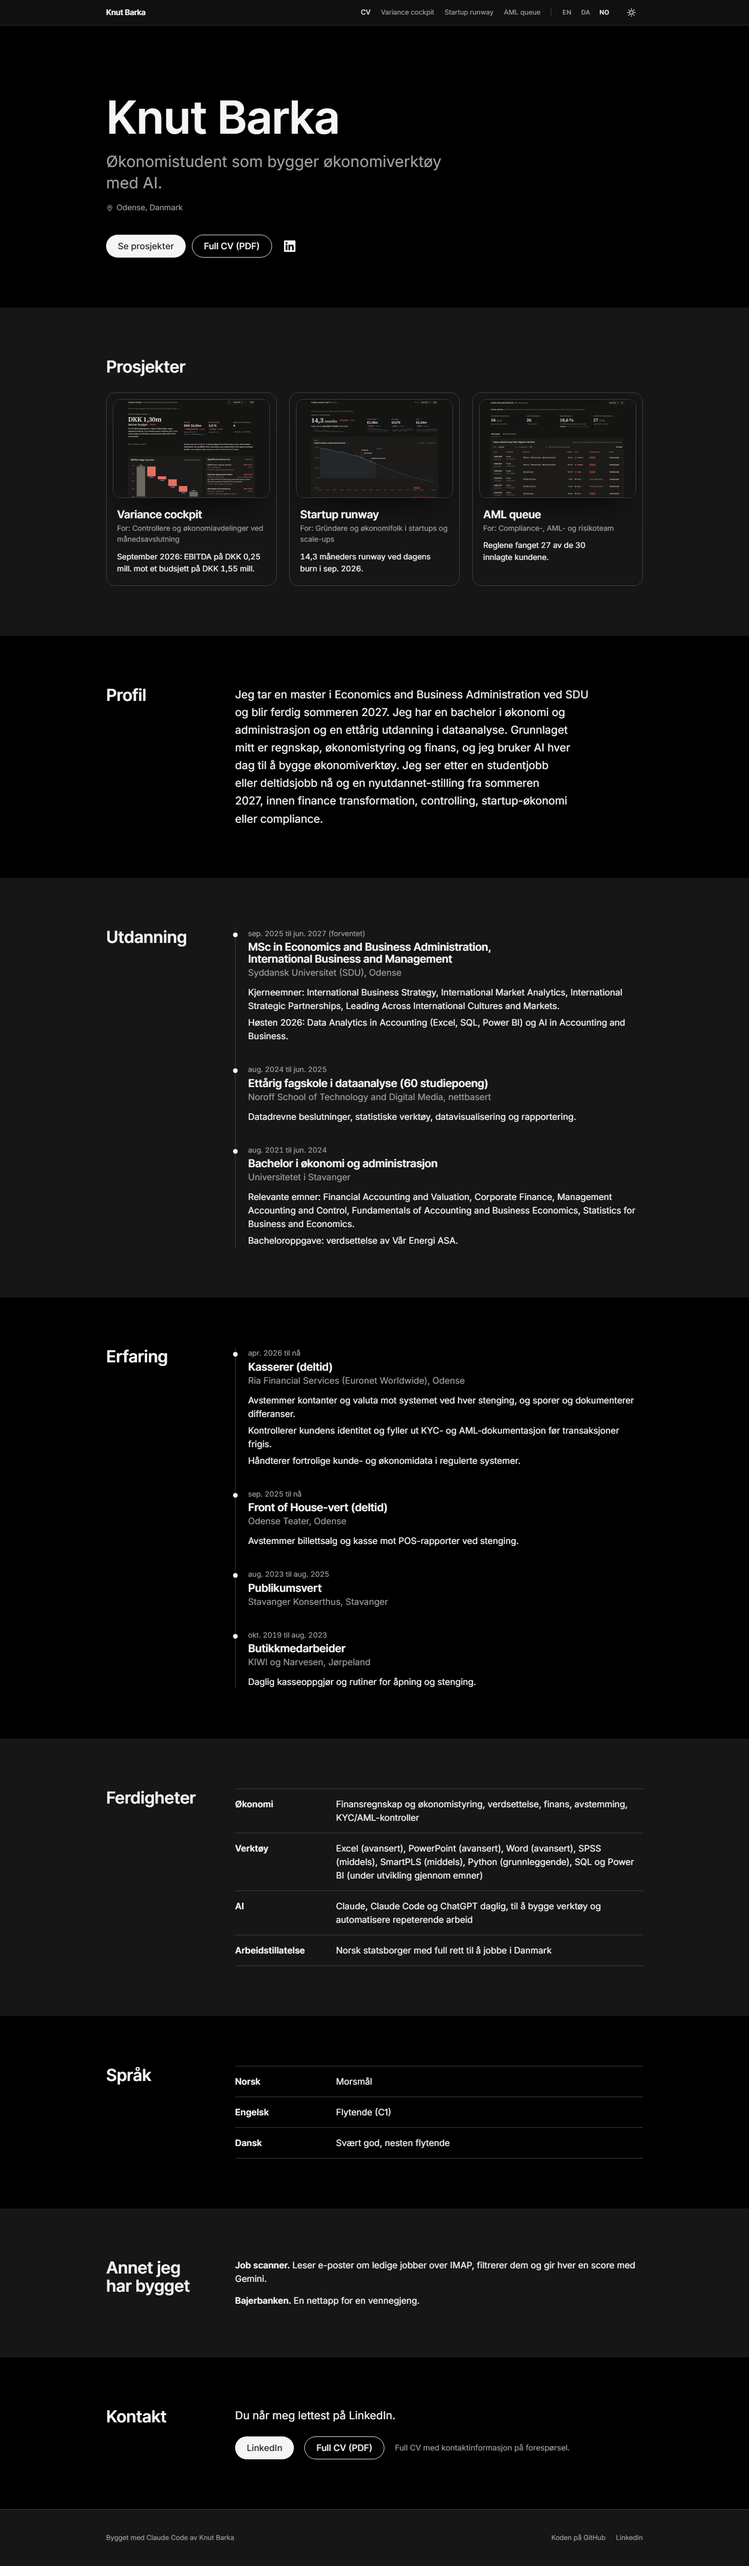
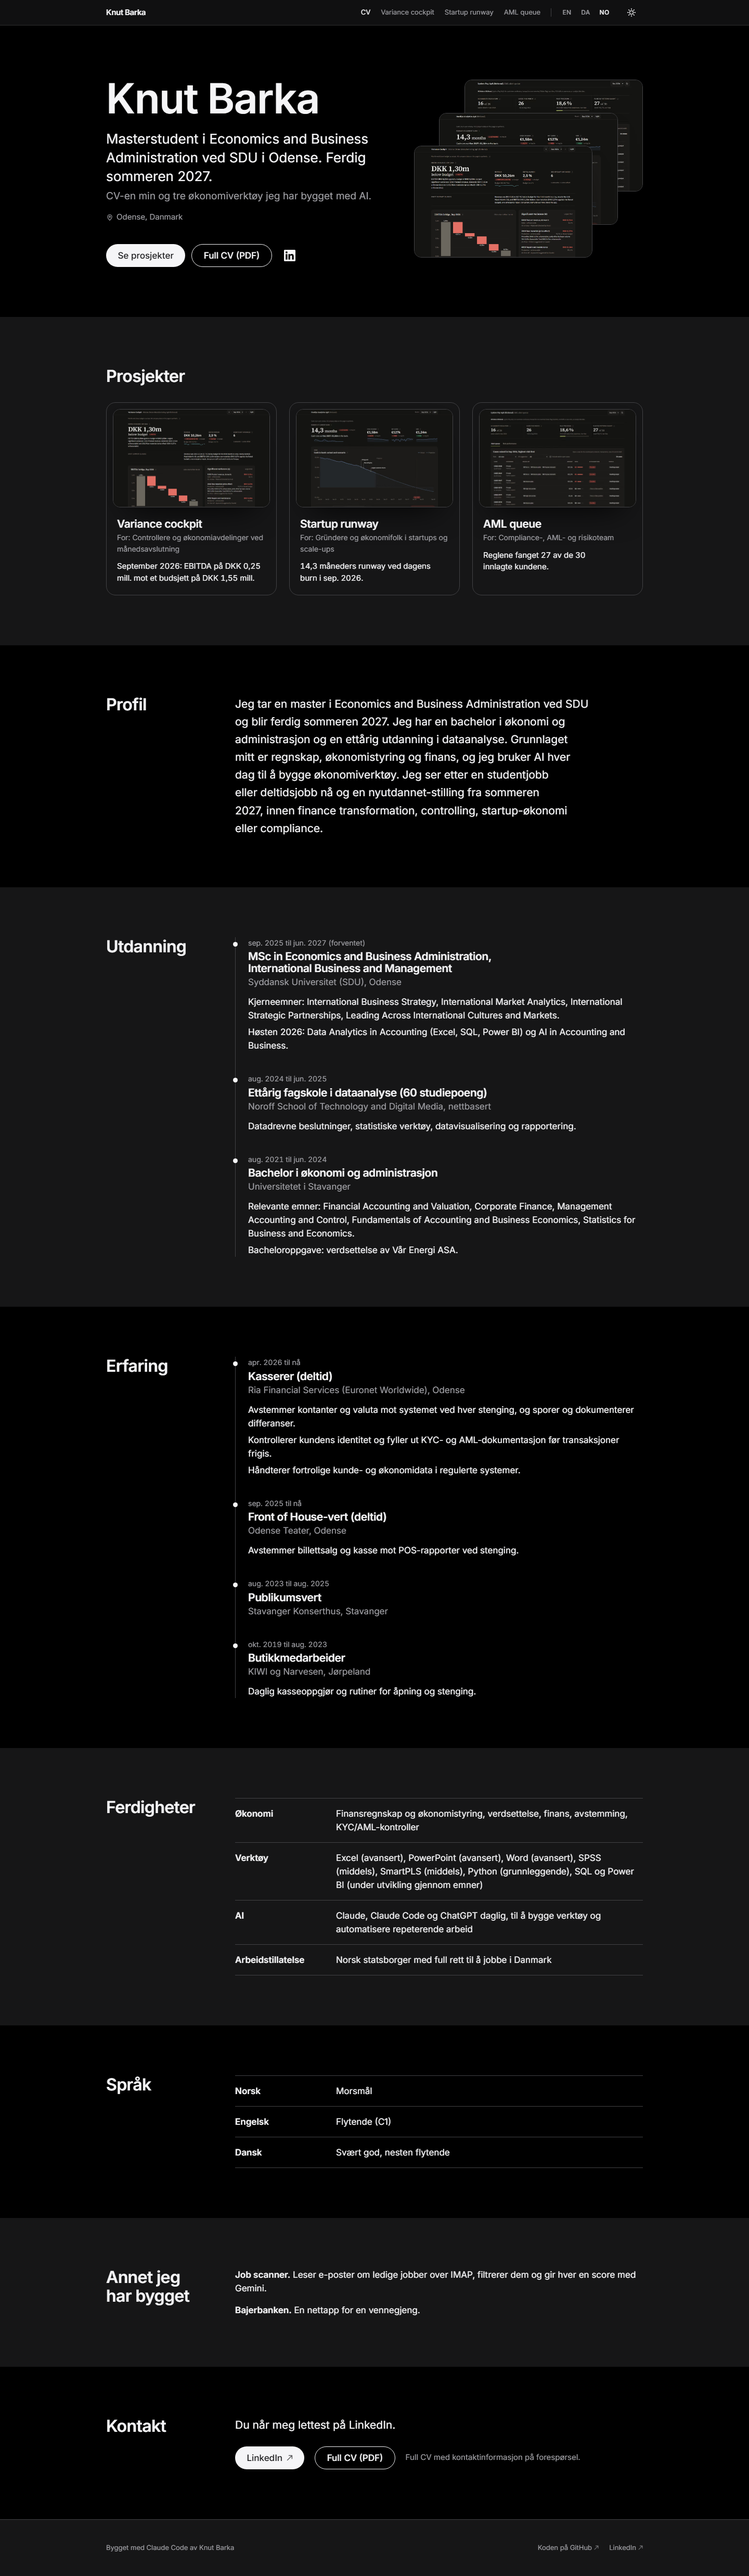
Hero stack in front-to-back tab order; QA log and decisions for the fix round; new screenshots

diff --git a/components/HeroShots.tsx b/components/HeroShots.tsx
@@ -2,12 +2,13 @@ import Link from "next/link";
 import { Shot } from "./Shot";
 import { projects, type Locale, type ProjectSlug } from "@/lib/site";
 
-// The three dashboards as a layered stack, back to front. Each one links to its project page.
+// The three dashboards as a layered stack. Each one links to its project page.
+// Listed front to back, so Tab reaches the front one first; z-index does the visual stacking.
 // Positions are percentages of the box, so the stack scales with the column.
 const layers: { slug: ProjectSlug; className: string }[] = [
-  { slug: "aml-queue", className: "right-0 top-0 z-0 [animation-delay:150ms]" },
-  { slug: "startup-runway", className: "right-[11%] top-[18%] z-10 [animation-delay:250ms]" },
   { slug: "variance-cockpit", className: "right-[22%] top-[36%] z-20 [animation-delay:350ms]" },
+  { slug: "startup-runway", className: "right-[11%] top-[18%] z-10 [animation-delay:250ms]" },
+  { slug: "aml-queue", className: "right-0 top-0 z-0 [animation-delay:150ms]" },
 ];
 
 export function HeroShots({ lang }: { lang: Locale }) {

diff --git a/docs/qa.md b/docs/qa.md
@@ -29,3 +29,17 @@ Not checked in Part A: the right passcode against the real Blob store (Knut does
 - No horizontal scroll at 375 px; Open Graph images return 200 on all 12 pages; keyboard, focus ring and dialog checks pass; no console errors.
 
 Screenshots: `docs/screenshots/live/`.
+
+## Fix round, 07.11.2026 (local production build)
+
+| Check | Result |
+|---|---|
+| `npm run lint`, `npm run typecheck`, `npm run build` | Clean |
+| `npm test` | 21 of 21 pass |
+| `npm run qa` (headless Edge) | 123 of 123 pass on two runs in a row. One earlier run had 122 of 123: a single console error with no message ("Uncaught"). It did not come back in two full runs or three hero and theme runs, so the source is unknown. The QA now logs the full error text, so a repeat will name it. |
+| New: theme across navigation | Set dark, then click EN > DA > NO > a project page > EN: dark after every switch. No light frame in 165 samples (every animation frame plus every change to `<html>`). Before the fix the same check failed: theme lost on every switch, light frames drawn. |
+| New: hero | The buttons stay above the fold at 1440 x 900 (bottom at 521 px) and 375 x 667 (bottom at 451 to 479 px) in all three languages. The screenshot stack links to all three project pages. |
+| New: external links | On all 12 pages every link to another site has `target="_blank"`, `rel="noopener noreferrer"` and the hidden "(opens in a new tab)" text in the page language. No internal link opens a new tab. |
+| Tab order on the start page | Skip to content > Knut Barka > CV > Variance cockpit > Startup runway > AML queue > EN > DA > NO > theme > See projects > Full CV (PDF) > LinkedIn (opens in a new tab) > hero stack (Variance cockpit, Startup runway, AML queue) > project cards |
+
+Screenshots retaken: `docs/screenshots/{en,da,no}-start-{light,dark,375}.png`, the project pages, and `en-hero-1440x900.png` and `en-hero-375x667.png` for the fold.

diff --git a/docs/decisions.md b/docs/decisions.md
@@ -41,3 +41,5 @@ Small choices made during the build. Each one: what, why, and the alternative.
 | 35 | Hero width matches the 1080 px column of the nav and every section below, so the name lines up with the rest. | A wider hero broke the left edge. | Wider hero for a bigger stack. |
 | 36 | Every link that leaves the site goes through one component, `ExternalLink`: `target="_blank"`, `rel="noopener noreferrer"`, a small arrow icon, and hidden text for screen readers ("(opens in a new tab)", "(åbner i en ny fane)", "(åpnes i en ny fane)"). It covers the live dashboard, GitHub, case sheet, footer, LinkedIn and the LinkedIn link in the CV dialog. Internal links keep `next/link` and the same tab. | As asked. One component means no link can forget part of it, and the QA checks every page. | Add the attributes by hand on each link. Easy to miss one. |
 | 37 | The LinkedIn logo button in the hero has no extra arrow; it gets hidden text "LinkedIn (opens in a new tab)" instead of the old aria-label. The case sheet link shows the arrow instead of its chevron. | An arrow next to a logo looks cluttered, and two marks on one link is noise. | Arrow everywhere. |
+| 38 | Hero stack in tab order front to back (Variance cockpit, Startup runway, AML queue). z-index draws them back to front. | Keyboard focus should reach the layer you see first. | Back to front in the code. Focus lands on the hidden layer first. |
+| 39 | QA can run just the hero and theme checks with `QA_ONLY=quick`, and logs the full text of any page error. | Faster debugging; the first run showed an error with no message. | Always the full run (about 4 minutes). |
